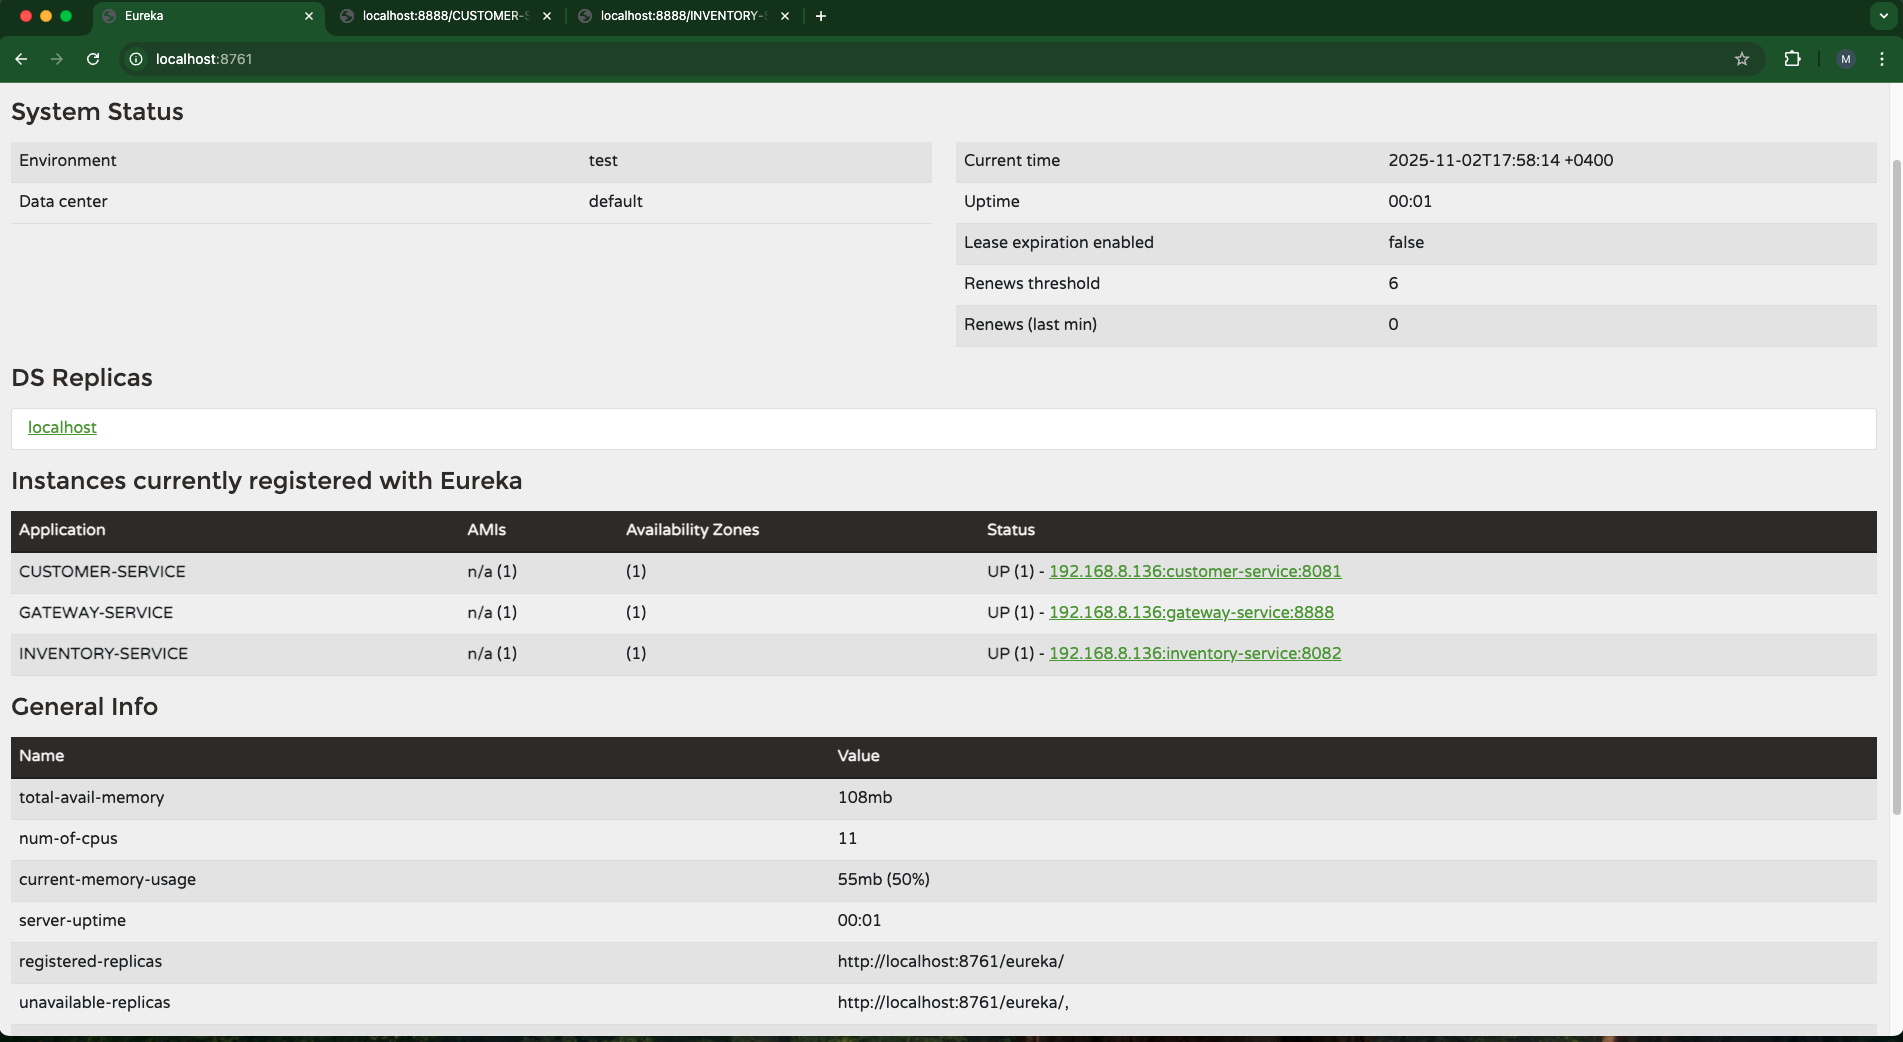
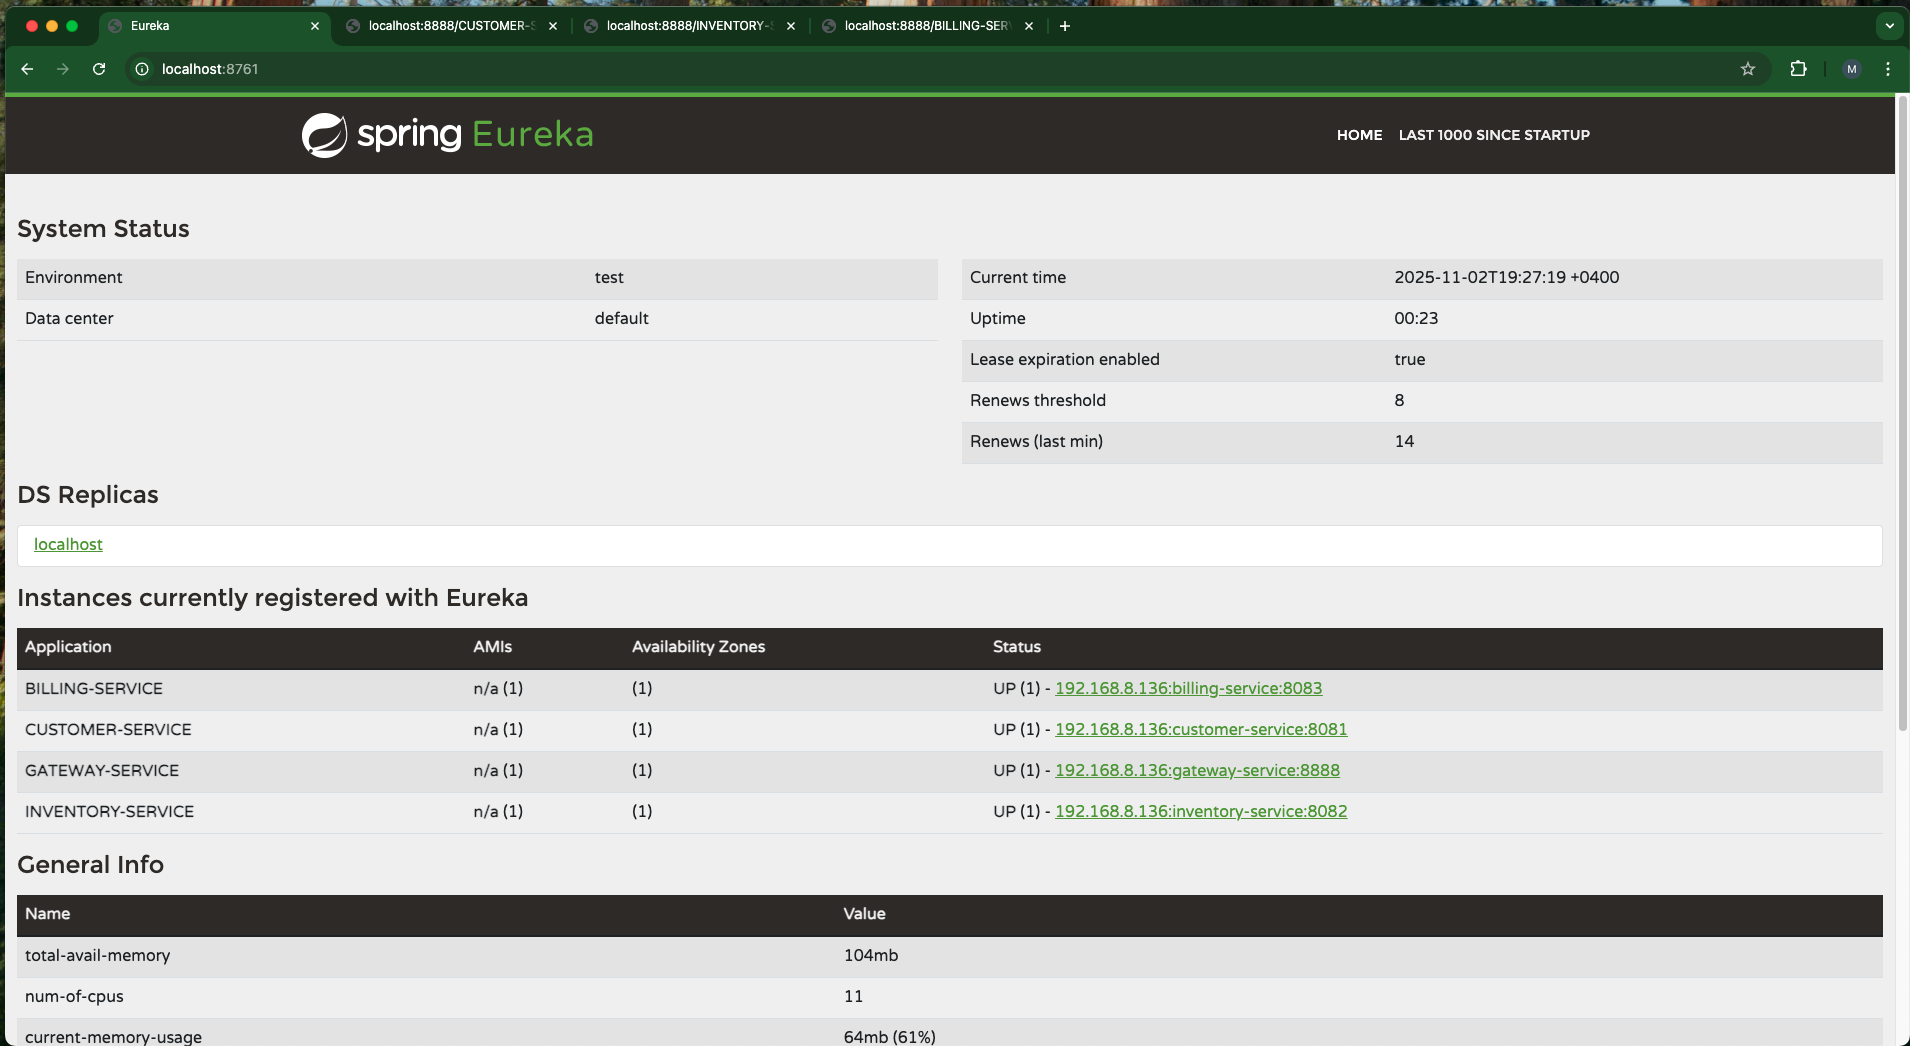
add billing service

diff --git a/billing-service/src/main/java/com/merlin/billingservice/BillingServiceApplication.java b/billing-service/src/main/java/com/merlin/billingservice/BillingServiceApplication.java
@@ -1,0 +1,48 @@
+package com.merlin.billingservice;
+
+import com.merlin.billingservice.entities.Bill;
+import com.merlin.billingservice.entities.ProductItem;
+import com.merlin.billingservice.repositories.BillRepository;
+import com.merlin.billingservice.repositories.ProductItemRepository;
+import org.springframework.boot.CommandLineRunner;
+import org.springframework.boot.SpringApplication;
+import org.springframework.boot.autoconfigure.SpringBootApplication;
+import org.springframework.cloud.openfeign.EnableFeignClients;
+import org.springframework.context.annotation.Bean;
+
+import java.util.Date;
+import java.util.List;
+import java.util.Random;
+
+@SpringBootApplication
+@EnableFeignClients
+public class BillingServiceApplication {
+
+    public static void main(String[] args) {
+        SpringApplication.run(BillingServiceApplication.class, args);
+    }
+
+    @Bean
+    CommandLineRunner start(BillRepository billRepository, ProductItemRepository productItemRepository) {
+        return args -> {
+            List<Long> customersIds = List.of(1L, 2L, 3L);
+            List<Long> productsIds = List.of(1L, 2L, 3L);
+
+            customersIds.forEach(customerId -> {
+                Bill bill = new Bill();
+                bill.setCustomerId(customerId);
+                bill.setBillingDate(new Date());
+                billRepository.save(bill);
+
+                productsIds.forEach(productId -> {
+                    ProductItem productItem = new ProductItem();
+                    productItem.setProductId(productId);
+                    productItem.setPrice(1000*Math.random()*600);
+                    productItem.setQuantity(1+new Random().nextInt(20));
+                    productItem.setBill(bill);
+                    productItemRepository.save(productItem);
+                });
+            });
+        };
+    }
+}

diff --git a/billing-service/src/main/java/com/merlin/billingservice/web/BillRestController.java b/billing-service/src/main/java/com/merlin/billingservice/web/BillRestController.java
@@ -1,0 +1,35 @@
+package com.merlin.billingservice.web;
+
+import com.merlin.billingservice.entities.Bill;
+import com.merlin.billingservice.feign.CustomerServiceRestClient;
+import com.merlin.billingservice.feign.InventoryServiceRestClient;
+import com.merlin.billingservice.model.Customer;
+import com.merlin.billingservice.repositories.BillRepository;
+import com.merlin.billingservice.repositories.ProductItemRepository;
+import lombok.AllArgsConstructor;
+import org.springframework.web.bind.annotation.GetMapping;
+import org.springframework.web.bind.annotation.PathVariable;
+import org.springframework.web.bind.annotation.RequestMapping;
+import org.springframework.web.bind.annotation.RestController;
+
+@RestController
+@RequestMapping("/api")
+@AllArgsConstructor
+public class BillRestController {
+    private final BillRepository billRepository;
+    private final ProductItemRepository productItemRepository;
+    private final CustomerServiceRestClient customerServiceRestClient;
+    private final InventoryServiceRestClient inventoryServiceRestClient;
+
+    @GetMapping("/bills/{id}")
+    public Bill getBillById(@PathVariable Long id) {
+        Bill bill = billRepository.findById(id).orElse(null);
+        assert bill != null;
+        Customer customer = customerServiceRestClient.findCustomerById(bill.getCustomerId());
+        bill.setCustomer(customer);
+        bill.getProductItems().forEach(productItem ->
+                productItem.setProduct(inventoryServiceRestClient
+                .findProductById(productItem.getProductId())));
+        return bill;
+    }
+}

diff --git a/billing-service/src/main/java/com/merlin/billingservice/feign/CustomerServiceRestClient.java b/billing-service/src/main/java/com/merlin/billingservice/feign/CustomerServiceRestClient.java
@@ -1,0 +1,23 @@
+package com.merlin.billingservice.feign;
+
+import com.merlin.billingservice.model.Customer;
+import io.github.resilience4j.circuitbreaker.annotation.CircuitBreaker;
+import org.springframework.cloud.openfeign.FeignClient;
+import org.springframework.web.bind.annotation.GetMapping;
+import org.springframework.web.bind.annotation.PathVariable;
+
+@FeignClient(name = "customer-service")
+public interface CustomerServiceRestClient {
+    @GetMapping("/customers/{id}")
+    @CircuitBreaker(name = "customer-service", fallbackMethod = "getDefaultCustomer")
+    Customer findCustomerById(@PathVariable Long id);
+
+    default Customer getDefaultCustomer(Long id, Exception exception) {
+        exception.printStackTrace();
+        Customer customer = new Customer();
+        customer.setId(id);
+        customer.setName("default customer name");
+        customer.setEmail("default@gmail.com");
+        return customer;
+    }
+}

diff --git a/billing-service/src/main/java/com/merlin/billingservice/feign/InventoryServiceRestClient.java b/billing-service/src/main/java/com/merlin/billingservice/feign/InventoryServiceRestClient.java
@@ -1,0 +1,21 @@
+package com.merlin.billingservice.feign;
+
+import com.merlin.billingservice.entities.Product;
+import io.github.resilience4j.circuitbreaker.annotation.CircuitBreaker;
+import org.springframework.cloud.openfeign.FeignClient;
+import org.springframework.web.bind.annotation.GetMapping;
+import org.springframework.web.bind.annotation.PathVariable;
+
+@FeignClient(name = "inventory-service")
+public interface InventoryServiceRestClient {
+
+    @GetMapping("/products/{id}")
+    @CircuitBreaker(name = "inventory-service", fallbackMethod = "getDefaultProduct")
+    Product findProductById(@PathVariable Long id);
+
+    default Product getDefaultProduct(Long id, Exception exception) {
+        return Product.builder()
+                .id(id)
+                .price(0).quantity(0).build();
+    }
+}

diff --git a/billing-service/src/main/java/com/merlin/billingservice/entities/Bill.java b/billing-service/src/main/java/com/merlin/billingservice/entities/Bill.java
@@ -1,0 +1,26 @@
+package com.merlin.billingservice.entities;
+
+import com.merlin.billingservice.model.Customer;
+import jakarta.persistence.*;
+import lombok.*;
+
+import java.util.Date;
+import java.util.List;
+
+@Entity
+@Getter
+@Setter
+@AllArgsConstructor
+@NoArgsConstructor
+@Builder
+public class Bill {
+    @Id
+    @GeneratedValue
+    private Long id;
+    private Date billingDate;
+    private long customerId;
+    @OneToMany(mappedBy = "bill")
+    private List<ProductItem> productItems;
+    @Transient
+    private Customer customer;
+}

diff --git a/billing-service/src/main/java/com/merlin/billingservice/entities/ProductItem.java b/billing-service/src/main/java/com/merlin/billingservice/entities/ProductItem.java
@@ -1,0 +1,24 @@
+package com.merlin.billingservice.entities;
+
+import com.fasterxml.jackson.annotation.JsonProperty;
+import jakarta.persistence.*;
+import lombok.*;
+
+@Entity
+@Getter
+@Setter
+@AllArgsConstructor
+@NoArgsConstructor
+@Builder
+public class ProductItem {
+    @Id @GeneratedValue
+    private Long id;
+    private long productId;
+    private double price;
+    private int quantity;
+    @ManyToOne
+    @JsonProperty(access = JsonProperty.Access.WRITE_ONLY)
+    private Bill bill;
+    @Transient
+    private Product product;
+}

diff --git a/billing-service/src/main/java/com/merlin/billingservice/entities/Product.java b/billing-service/src/main/java/com/merlin/billingservice/entities/Product.java
@@ -1,0 +1,23 @@
+package com.merlin.billingservice.entities;
+
+import jakarta.persistence.Entity;
+import jakarta.persistence.GeneratedValue;
+import jakarta.persistence.GenerationType;
+import jakarta.persistence.Id;
+import lombok.*;
+
+@Entity
+@Getter
+@Setter
+@AllArgsConstructor
+@NoArgsConstructor
+@Builder
+public class Product {
+    @Id
+    @GeneratedValue
+    private Long id;
+    private String name;
+    private String description;
+    private double price;
+    private int quantity;
+}

diff --git a/billing-service/src/main/java/com/merlin/billingservice/repositories/ProductItemRepository.java b/billing-service/src/main/java/com/merlin/billingservice/repositories/ProductItemRepository.java
@@ -1,0 +1,10 @@
+package com.merlin.billingservice.repositories;
+
+import com.merlin.billingservice.entities.ProductItem;
+import org.springframework.data.jpa.repository.JpaRepository;
+
+import java.util.List;
+
+public interface ProductItemRepository extends JpaRepository<ProductItem, Long> {
+    List<ProductItem> findByBillId(Long billId);
+}

diff --git a/billing-service/src/main/java/com/merlin/billingservice/model/Customer.java b/billing-service/src/main/java/com/merlin/billingservice/model/Customer.java
@@ -1,0 +1,14 @@
+package com.merlin.billingservice.model;
+
+import lombok.*;
+
+@Getter
+@Setter
+@AllArgsConstructor
+@NoArgsConstructor
+@Builder
+public class Customer {
+    private Long id;
+    private String name;
+    private String email;
+}

diff --git a/billing-service/src/main/java/com/merlin/billingservice/repositories/BillRepository.java b/billing-service/src/main/java/com/merlin/billingservice/repositories/BillRepository.java
@@ -1,0 +1,7 @@
+package com.merlin.billingservice.repositories;
+
+import com.merlin.billingservice.entities.Bill;
+import org.springframework.data.jpa.repository.JpaRepository;
+
+public interface BillRepository extends JpaRepository<Bill, Long> {
+}

diff --git a/README.md b/README.md
@@ -1,0 +1,56 @@
+# Spring Cloud Synchronous Microservices with OpenFeign and Resilience4j Demo
+
+This project demonstrates a **synchronous microservices architecture** built with the **Spring Cloud ecosystem**.  
+It showcases how services communicate via **OpenFeign**, with **Resilience4j** providing circuit breaker capabilities for reliability.
+
+## Architecture Overview
+
+- **billing-service**: Orchestrates requests.
+    - Calls **customer-service** synchronously to retrieve customer details.
+    - Calls **inventory-service** synchronously to retrieve product details.
+    - Uses **Resilience4j** circuit breakers to handle service failures gracefully.
+- **customer-service**: Provides customer information.
+- **inventory-service**: Provides product information.
+- **discovery-service**: Handles service registration and discovery (Eureka).
+- **gateway-service**: Provides API gateway and routing.
+- **config-service**: Centralized configuration for all microservices. `(next step)`
+
+## Key Features
+- Built with **Spring Boot & Spring Cloud**
+- **OpenFeign** for synchronous service-to-service communication
+- **Resilience4j** for fault tolerance (circuit breaker, retry)
+- **Eureka Discovery Service**
+- **Spring Cloud Gateway**
+- **Spring Cloud Config Server `(next step)`**
+- **Dockerized` (to be done)`** for easy local setup and testing
+
+## Application testing
+
+- http://localhost:8761
+
+![ereuka-discovery.png](images/ereuka-discovery.png)
+
+- http://localhost:8888/CUSTOMER-SERVICE/customers
+
+![customer-service.png](images/customer-service.png)
+
+- http://localhost:8888/INVENTORY-SERVICE/products
+
+![inventory-service.png](images/inventory-service.png)
+
+- http://localhost:8888/BILLING-SERVICE/bills
+
+![bills.png](images/bills.png)
+
+- http://localhost:8888/BILLING-SERVICE/api/bills/1
+
+![billing-service.png](images/billing-service.png)
+
+- Customer service down with circuit breaker default method
+
+![customer-service-circuit-breaker.png](images/customer-service-circuit-breaker.png)
+
+- Inventory service down without circuit breaker
+
+![Inventory-service-down-without-circuit-breaker.png](images/Inventory-service-down-without-circuit-breaker.png)
+
